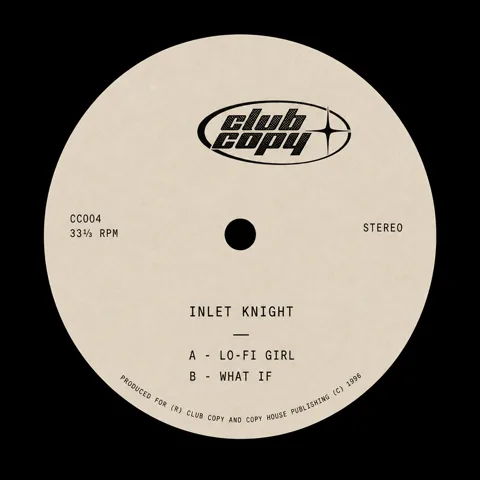
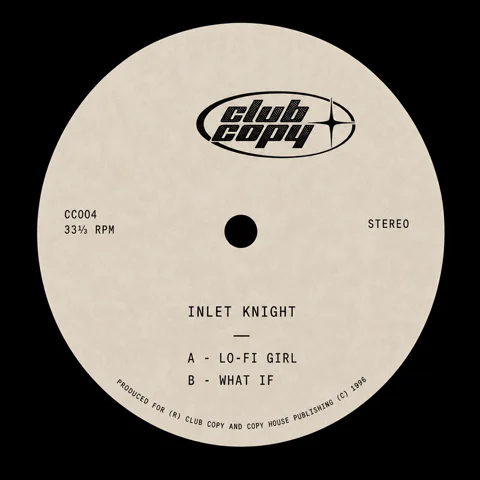
Set Lo-Fi Girl cover to Club Copy CC004 label art
Use the isolated cream vinyl-label artwork for Lo-Fi Girl and
align the release catalogue number to CC004.

diff --git a/lo-fi-girl.html b/lo-fi-girl.html
@@ -4,7 +4,7 @@
   <meta charset="UTF-8"/>
   <meta name="viewport" content="width=device-width,initial-scale=1,viewport-fit=cover"/>
   <title>Lo-Fi Girl — Inlet Knight — Club Copy</title>
-  <meta name="description" content="Lo-Fi Girl — a new album by Inlet Knight. Pre-order digital on Club Copy (CC009)."/>
+  <meta name="description" content="Lo-Fi Girl — a new album by Inlet Knight. Pre-order digital on Club Copy (CC004)."/>
   <meta name="theme-color" content="#FAF8F5"/>
   <meta property="og:title" content="Lo-Fi Girl — Inlet Knight"/>
   <meta property="og:description" content="Pre-order the new Inlet Knight album. Digital, $8 CAD."/>
